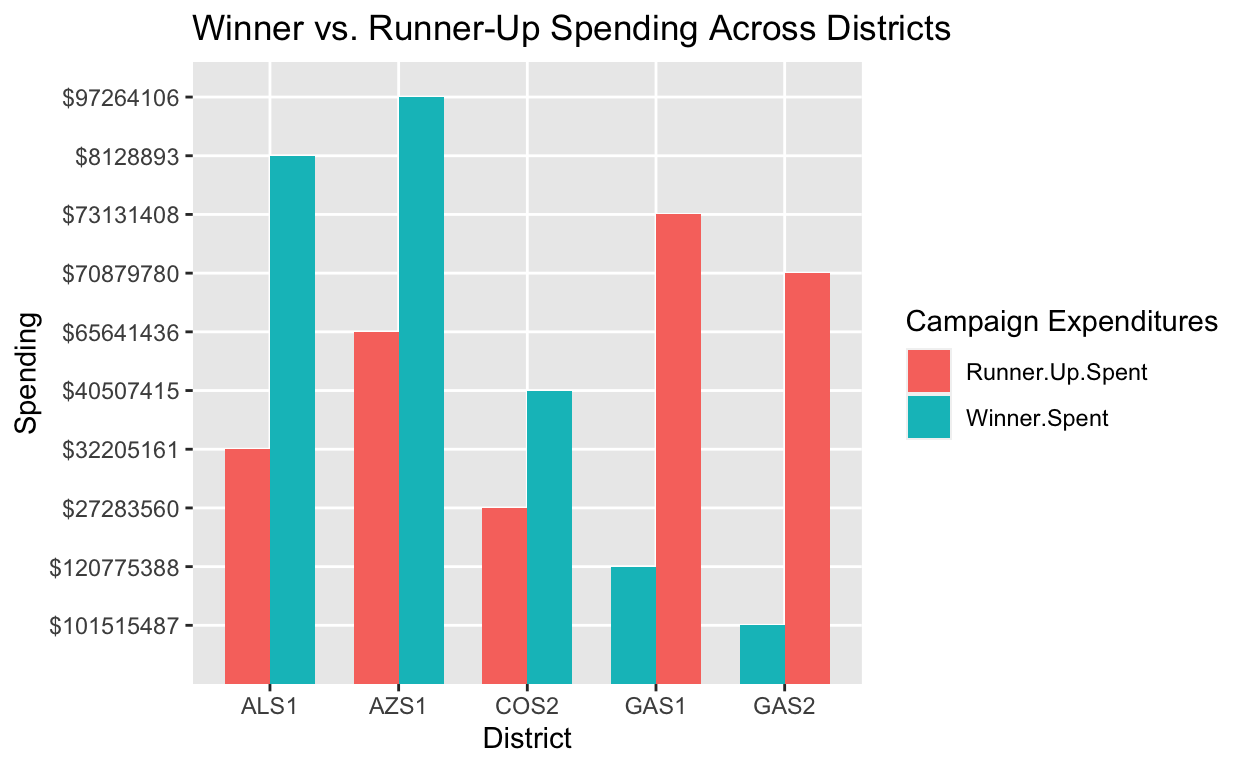
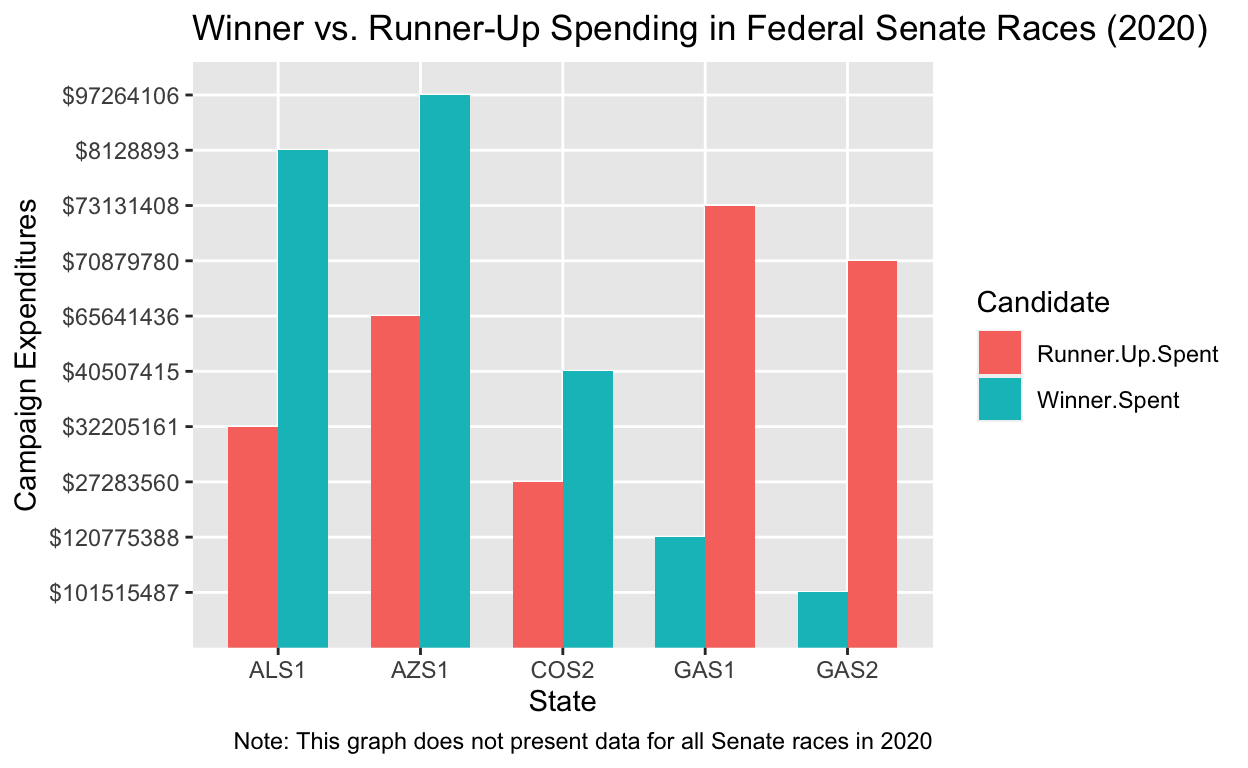
commit

Changed region(s): [[0.0, 0.0, 0.9688, 1.0], [0.0625, 0.0938, 0.1562, 0.1562]]

diff --git a/index.html b/index.html
@@ -1519,113 +1519,6 @@ code span.wa { color: #5e5e5e; font-style: italic; } /* Warning */
 <div class="d-article">
 <div class="layout-chunk" data-layout="l-body">
 <div class="sourceCode">
-<pre class="sourceCode r"><code class="sourceCode r"><span><span class='va'>houseRaces</span> <span class='op'>&lt;-</span> <span class='fu'><a href='https://rdrr.io/r/utils/read.table.html'>read.csv</a></span><span class='op'>(</span><span class='st'>'DefeatedSenators2020.csv'</span><span class='op'>)</span></span>
-<span><span class='va'>openSeats</span> <span class='op'>&lt;-</span> <span class='fu'><a href='https://rdrr.io/r/utils/read.table.html'>read.csv</a></span><span class='op'>(</span><span class='st'>'OpenSenateSeat2020.csv'</span><span class='op'>)</span></span>
-<span><span class='va'>winningSenators</span> <span class='op'>&lt;-</span> <span class='fu'><a href='https://rdrr.io/r/utils/read.table.html'>read.csv</a></span><span class='op'>(</span><span class='st'>'WinningSenators.csv'</span><span class='op'>)</span></span>
-<span><span class='co'>#note for future: I don't think I titled all the files correctly</span></span>
-<span><span class='va'>winningSenators</span></span></code></pre>
-</div>
-<pre><code>   District               Winner Winner.Spent
-1      RIS2            Jack Reed     $3905792
-2      ARS1           Tom Cotton     $6525299
-3      ORS1         Jeff Merkley     $8024629
-4      NES2            Ben Sasse     $4939899
-5      ILS1          Dick Durbin     $9975150
-6      NJS2          Cory Booker    $10178479
-7      MAS2            Ed Markey    $14343117
-8      DES2          Chris Coons     $5866709
-9      SDS2          Mike Rounds     $3059427
-10     NHS2       Jeanne Shaheen    $18055622
-11     LAS1         Bill Cassidy    $10212765
-12     VAS2          Mark Warner    $16717182
-13     OKS2       James M Inhofe     $5413098
-14     MNS1           Tina Smith    $15657763
-15     IDS1        James E Risch     $2174467
-16     WVS2 Shelley Moore Capito     $3904543
-17     TXS1          John Cornyn    $36106833
-18     MIS1          Gary Peters    $49747994
-19     SCS2       Lindsey Graham    $97355401
-20     MTS2        Steven Daines    $33435122
-21     KYS1      Mitch McConnell    $57708950
-22     AKS1         Dan Sullivan     $9886229
-23     IAS2           Joni Ernst    $29470595
-24     MES2        Susan Collins    $29433600
-25     NCS1          Thom Tillis    $24737348
-26     MSS1     Cindy Hyde-Smith     $3192011
-   Secong.Highest.Vote.Getter Runner.Up.Spent
-1                Allen Waters          $21944
-2    Ricky Dale Harrington Jr          $64036
-3              Jo Rae Perkins         $122048
-4               Chris Janicek         $126459
-5                 Mark Curran         $352282
-6                 Rikin Mehta         $586153
-7              Kevin O&#39;Connor         $874733
-8               Lauren Witzke         $465316
-9                  Dan Ahlers         $253114
-10              Corky Messner        $3844919
-11             Adrian Perkins        $2550054
-12                Daniel Gade        $4863920
-13               Abby Broyles        $2037262
-14                Jason Lewis        $6716094
-15            Paulette Jordan        $1062172
-16      Paula Jean Swearengin        $1979560
-17                   MJ Hegar       $28867738
-18                 John James       $46131244
-19             Jaime Harrison      $129767700
-20              Steve Bullock       $47567780
-21                Amy McGrath       $90407685
-22                   Al Gross       $19234449
-23         Theresa Greenfield       $55321649
-24                Sara Gideon       $59685282
-25             Cal Cunningham       $50873245
-26                  Mike Espy       $12285320
-                         Ratio
-1               More than 10:1
-2               More than 10:1
-3               More than 10:1
-4               More than 10:1
-5               More than 10:1
-6               More than 10:1
-7               More than 10:1
-8               More than 10:1
-9               More than 10:1
-10 More than 2:1 and Up to 5:1
-11 More than 2:1 and Up to 5:1
-12 More than 2:1 and Up to 5:1
-13 More than 2:1 and Up to 5:1
-14 More than 2:1 and Up to 5:1
-15                   Up to 2:1
-16                   Up to 2:1
-17                   Up to 2:1
-18                   Up to 2:1
-19      Outspent less than 2:1
-20      Outspent less than 2:1
-21      Outspent less than 2:1
-22      Outspent less than 2:1
-23      Outspent less than 2:1
-24         Outspent 2:1 to 5:1
-25         Outspent 2:1 to 5:1
-26         Outspent 2:1 to 5:1</code></pre>
-<div class="sourceCode">
-<pre class="sourceCode r"><code class="sourceCode r"><span><span class='va'>houseRaces</span></span></code></pre>
-</div>
-<pre><code>  District            Winner Winner.Spent Secong.Highest.Vote.Getter
-1     GAS1        Jon Ossoff   $120775388               David Perdue
-2     AZS1        Mark Kelly    $97264106             Martha McSally
-3     COS2 John Hickenlooper    $40507415               Cory Gardner
-4     GAS2   Raphael Warnock   $101515487             Kelly Loeffler
-5     ALS1  Tommy Tuberville     $8128893                 Doug Jones
-  Runner.Up.Spent               Ratio
-1       $73131408           Up to 2:1
-2       $65641436           Up to 2:1
-3       $27283560           Up to 2:1
-4       $70879780           Up to 2:1
-5       $32205161 Outspent 2:1 to 5:1</code></pre>
-</div>
-<h2 id="project-thoughts">Project thoughts</h2>
-<p>I aim to explore the relationship between campaign expenditures and electoral success in federal elections. My hypothesis is that the candidate with greater campaign expenditures usually wins the election. This question has been researched before and it makes sense why a campaign that spends more is likely to win but I think this question can be further explored. It would be interesting to see if the type of campaign expenditures affects electoral success or how much money can make a difference in electoral outcomes. The explanatory variables of interest for the fundamental question I’m exploring is the campaign expenditures, measured in terms of dollars spent during a campaign cycle. The outcome variable of interest is whether or not the candidate won their election. If the candidate with the campaign that spends more wins more often than not, it would provide support for my hypothesis. The pattern that would disprove or at the very least not support my hypothesis is if on average the campaign with the greatest expenditures does not win because it would indicate that spending doesn’t matter or if the opposite occurs where the campaign that spends the least wins would not provide evidence to support my hypothesis.</p>
-<div class="layout-chunk" data-layout="l-body">
-<div class="sourceCode">
 <pre class="sourceCode r"><code class="sourceCode r"><span><span class='kw'><a href='https://rdrr.io/r/base/library.html'>library</a></span><span class='op'>(</span><span class='va'><a href='https://tidyverse.tidyverse.org'>tidyverse</a></span><span class='op'>)</span></span>
 <span><span class='kw'><a href='https://rdrr.io/r/base/library.html'>library</a></span><span class='op'>(</span><span class='va'><a href='https://dplyr.tidyverse.org'>dplyr</a></span><span class='op'>)</span></span>
 <span><span class='kw'><a href='https://rdrr.io/r/base/library.html'>library</a></span><span class='op'>(</span><span class='va'><a href='https://ggplot2.tidyverse.org'>ggplot2</a></span><span class='op'>)</span></span></code></pre>
@@ -1633,23 +1526,40 @@ code span.wa { color: #5e5e5e; font-style: italic; } /* Warning */
 </div>
 <div class="layout-chunk" data-layout="l-body">
 <div class="sourceCode">
-<pre class="sourceCode r"><code class="sourceCode r"><span><span class='va'>houseElections</span> <span class='op'>&lt;-</span> <span class='va'>houseRaces</span> <span class='op'>|&gt;</span></span>
+<pre class="sourceCode r"><code class="sourceCode r"><span><span class='va'>senators</span> <span class='op'>&lt;-</span> <span class='fu'><a href='https://rdrr.io/r/utils/read.table.html'>read.csv</a></span><span class='op'>(</span><span class='st'>'DefeatedSenators2020.csv'</span><span class='op'>)</span></span></code></pre>
+</div>
+</div>
+<h2 id="project-thoughts">Project thoughts</h2>
+<p>I aim to explore the relationship between campaign expenditures and electoral success in federal elections. My hypothesis is that the candidate with greater campaign expenditures usually wins the election. This question has been researched before and it makes sense why a campaign that spends more is likely to win but I think this question can be further explored. It would be interesting to see if the type of campaign expenditures affects electoral success or how much money can make a difference in electoral outcomes. The explanatory variables of interest for the fundamental question I’m exploring is the campaign expenditures, measured in terms of dollars spent during a campaign cycle. The outcome variable of interest is whether or not the candidate won their election. If the candidate with the campaign that spends more wins more often than not, it would provide support for my hypothesis. The pattern that would disprove or at the very least not support my hypothesis is if on average the campaign with the greatest expenditures does not win because it would indicate that spending doesn’t matter or if the opposite occurs where the campaign that spends the least wins would not provide evidence to support my hypothesis.</p>
+<div class="layout-chunk" data-layout="l-body">
+<div class="sourceCode">
+<pre class="sourceCode r"><code class="sourceCode r"><span><span class='va'>SenatorRaces</span> <span class='op'>&lt;-</span> <span class='va'>senators</span> <span class='op'>|&gt;</span></span>
 <span>  <span class='fu'><a href='https://tidyr.tidyverse.org/reference/pivot_longer.html'>pivot_longer</a></span><span class='op'>(</span>cols <span class='op'>=</span> <span class='fu'><a href='https://rdrr.io/r/base/c.html'>c</a></span><span class='op'>(</span><span class='va'>`Winner.Spent`</span>, <span class='va'>`Runner.Up.Spent`</span><span class='op'>)</span>, names_to <span class='op'>=</span> <span class='st'>"Candidate"</span>, values_to <span class='op'>=</span> <span class='st'>"Spending"</span><span class='op'>)</span></span>
 <span></span>
-<span><span class='fu'><a href='https://ggplot2.tidyverse.org/reference/ggplot.html'>ggplot</a></span><span class='op'>(</span><span class='va'>houseElections</span>, <span class='fu'><a href='https://ggplot2.tidyverse.org/reference/aes.html'>aes</a></span><span class='op'>(</span>x <span class='op'>=</span> <span class='va'>District</span>, y <span class='op'>=</span> <span class='va'>Spending</span>, fill <span class='op'>=</span> <span class='va'>Candidate</span><span class='op'>)</span><span class='op'>)</span> <span class='op'>+</span></span>
+<span><span class='fu'><a href='https://ggplot2.tidyverse.org/reference/ggplot.html'>ggplot</a></span><span class='op'>(</span><span class='va'>SenatorRaces</span>, <span class='fu'><a href='https://ggplot2.tidyverse.org/reference/aes.html'>aes</a></span><span class='op'>(</span>x <span class='op'>=</span> <span class='va'>District</span>, y <span class='op'>=</span> <span class='va'>Spending</span>, fill <span class='op'>=</span> <span class='va'>Candidate</span><span class='op'>)</span><span class='op'>)</span> <span class='op'>+</span></span>
 <span>  <span class='fu'><a href='https://ggplot2.tidyverse.org/reference/geom_bar.html'>geom_bar</a></span><span class='op'>(</span>stat <span class='op'>=</span> <span class='st'>"identity"</span>, position <span class='op'>=</span> <span class='st'>"dodge"</span>, width <span class='op'>=</span> <span class='fl'>0.7</span><span class='op'>)</span> <span class='op'>+</span></span>
 <span>  <span class='fu'><a href='https://ggplot2.tidyverse.org/reference/labs.html'>labs</a></span><span class='op'>(</span></span>
-<span>    title <span class='op'>=</span> <span class='st'>"Winner vs. Runner-Up Spending Across Districts"</span>,</span>
-<span>    x <span class='op'>=</span> <span class='st'>"District"</span>,</span>
-<span>    y <span class='op'>=</span> <span class='st'>"Spending"</span>,</span>
-<span>    fill <span class='op'>=</span> <span class='st'>"Campaign Expenditures"</span></span>
+<span>    title <span class='op'>=</span> <span class='st'>"Winner vs. Runner-Up Spending in Federal Senate Races (2020)"</span>,</span>
+<span>    x <span class='op'>=</span> <span class='st'>"State"</span>,</span>
+<span>    y <span class='op'>=</span> <span class='st'>"Campaign Expenditures"</span>,</span>
+<span>    fill <span class='op'>=</span> <span class='st'>"Candidate"</span>,</span>
+<span>    caption <span class='op'>=</span> <span class='st'>"Note: This graph does not present data for all Senate races in 2020"</span></span>
 <span>  <span class='op'>)</span> </span></code></pre>
 </div>
 <p><img src="index_files/figure-html5/unnamed-chunk-3-1.png" width="624" /></p>
 </div>
 <div class="layout-chunk" data-layout="l-body">
 <div class="sourceCode">
-<pre class="sourceCode r"><code class="sourceCode r"><span><span class='va'>Senators_plot</span> <span class='op'>&lt;-</span> <span class='va'>winningSenators</span> <span class='op'>|&gt;</span></span>
+<pre class="sourceCode r"><code class="sourceCode r"><span><span class='va'>openSeats</span> <span class='op'>&lt;-</span> <span class='fu'><a href='https://rdrr.io/r/utils/read.table.html'>read.csv</a></span><span class='op'>(</span><span class='st'>'OpenSenateSeat2020.csv'</span><span class='op'>)</span></span>
+<span><span class='va'>winningSenators</span> <span class='op'>&lt;-</span> <span class='fu'><a href='https://rdrr.io/r/utils/read.table.html'>read.csv</a></span><span class='op'>(</span><span class='st'>'WinningSenators.csv'</span><span class='op'>)</span></span>
+<span><span class='co'>#note for future: I don't think I titled all the files correctly</span></span>
+<span><span class='va'>winningSenators</span></span></code></pre>
+</div>
+</div>
+<div class="layout-chunk" data-layout="l-body">
+<div class="sourceCode">
+<pre class="sourceCode r"><code class="sourceCode r"><span><span class='co'>#figure out how to present the data in a cleaner way</span></span>
+<span><span class='va'>Senators_plot</span> <span class='op'>&lt;-</span> <span class='va'>winningSenators</span> <span class='op'>|&gt;</span></span>
 <span>  <span class='fu'><a href='https://tidyr.tidyverse.org/reference/pivot_longer.html'>pivot_longer</a></span><span class='op'>(</span>cols <span class='op'>=</span> <span class='fu'><a href='https://rdrr.io/r/base/c.html'>c</a></span><span class='op'>(</span><span class='va'>`Winner.Spent`</span>, <span class='va'>`Runner.Up.Spent`</span><span class='op'>)</span>, </span>
 <span>               names_to <span class='op'>=</span> <span class='st'>"Candidate"</span>, </span>
 <span>               values_to <span class='op'>=</span> <span class='st'>"Spending"</span><span class='op'>)</span></span>
@@ -1665,7 +1575,7 @@ code span.wa { color: #5e5e5e; font-style: italic; } /* Warning */
 <span>  <span class='op'>)</span> </span></code></pre>
 </div>
 </div>
-<div class="sourceCode" id="cb3"><pre class="sourceCode r distill-force-highlighting-css"><code class="sourceCode r"></code></pre></div>
+<div class="sourceCode" id="cb1"><pre class="sourceCode r distill-force-highlighting-css"><code class="sourceCode r"></code></pre></div>
 <!--radix_placeholder_article_footer-->
 <!--/radix_placeholder_article_footer-->
 </div>
